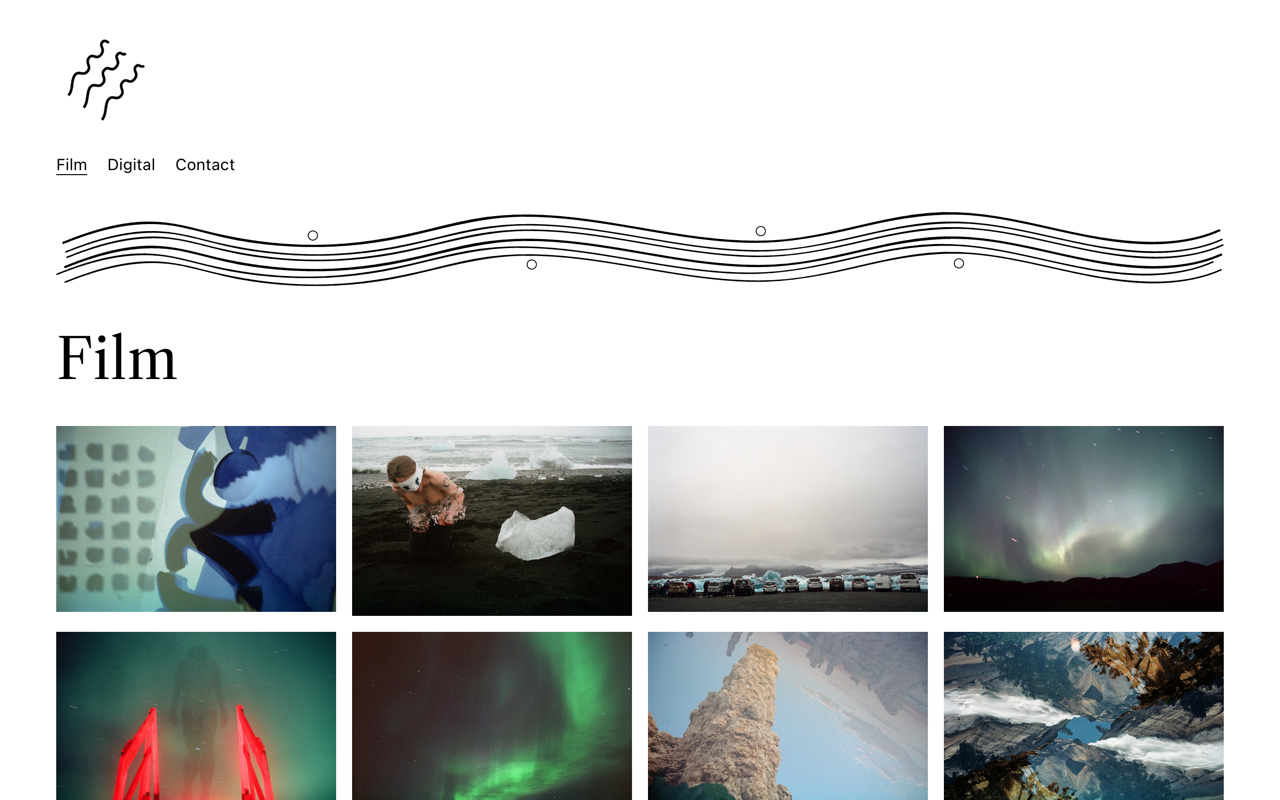
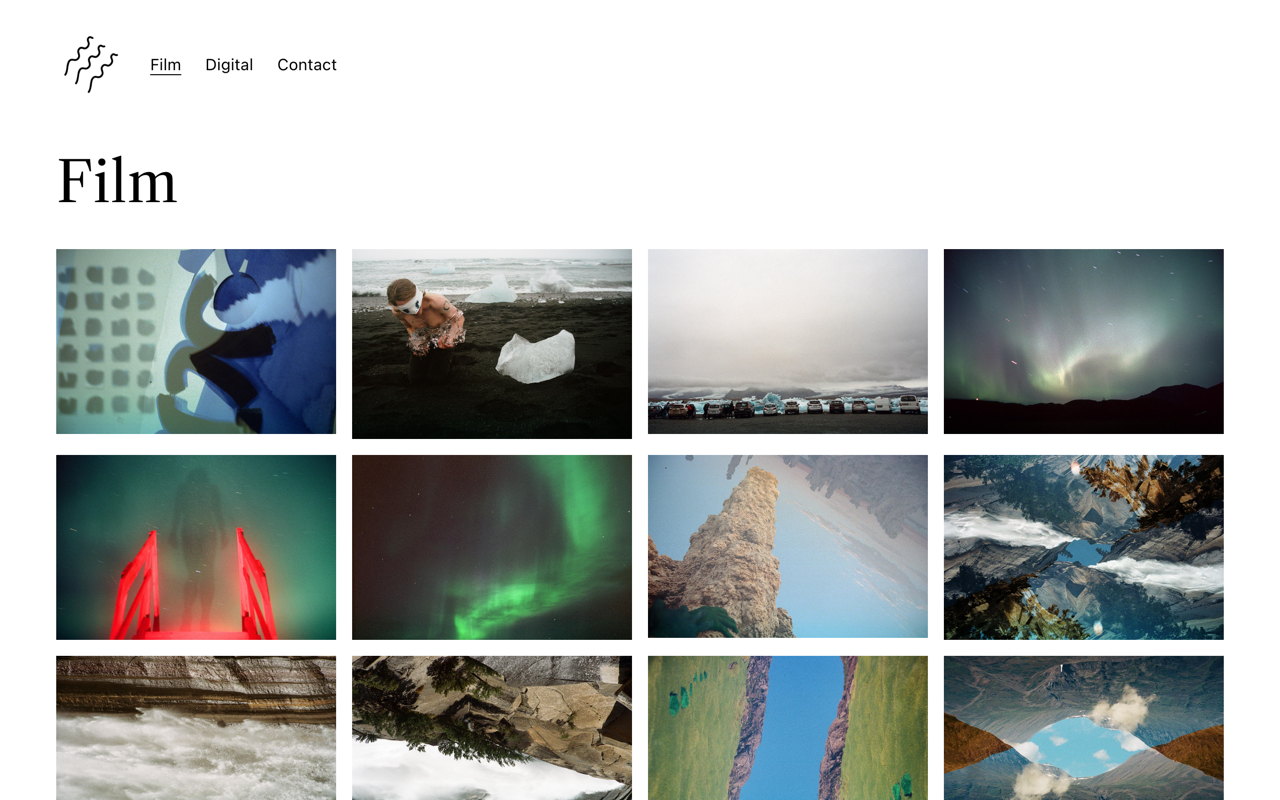
Inline wordmark with nav; move divider to page footer
Two header refinements that bring the layout closer to the original
Muse design intent:

1. Wordmark and nav are now a single flex row instead of stacked.
   The wordmark stays small (70px wide) and sits to the left of the
   "Film · Digital · Contact" links — a standard horizontal header.
   Stacking them looked awkward and gave the wordmark too much
   visual prominence even after the size reduction.

2. The wavy SVG divider was at the top of every page, just below
   the nav. In the original Muse layout it always closed the page
   as a decorative footer (e.g. on film.html it sat below all
   gallery photos; on index.html below the hero). Move it into a
   <footer class="site-footer"> at the end of each page so it
   reads as the end-of-content mark it was designed to be.

diff --git a/css/style.css b/css/style.css
@@ -41,21 +41,25 @@ img { max-width: 100%; height: auto; display: block; }
 
 /* --- Header --- */
 
-.site-header { padding-top: 0.5rem; }
+.site-header {
+  display: flex;
+  align-items: center;
+  flex-wrap: wrap;
+  gap: 1.5rem;
+  padding: 0.5rem 0 2.5rem;
+}
 
 .wordmark {
   display: block;
-  width: 100%;
-  max-width: 100px;
-  margin: 0 0 1rem;
+  flex-shrink: 0;
+  width: 70px;
 }
 .wordmark img { width: 100%; height: auto; display: block; }
 
 .site-nav {
   display: flex;
   flex-wrap: wrap;
-  gap: 1.25rem;
-  padding-bottom: 1rem;
+  gap: 1.5rem;
 }
 .site-nav a {
   font-family: -apple-system, BlinkMacSystemFont, "Segoe UI", Roboto, "Helvetica Neue", Arial, sans-serif;
@@ -68,12 +72,17 @@ img { max-width: 100%; height: auto; display: block; }
   text-underline-offset: 4px;
 }
 
+/* --- Footer divider (decorative end-of-page mark, per original Muse layout) --- */
+
+.site-footer {
+  margin-top: 3.5rem;
+  padding-bottom: 1rem;
+}
 .divider {
   display: block;
   width: 100%;
-  margin: 1rem 0 2rem;
 }
-.divider img { width: 100%; height: auto; }
+.divider img { width: 100%; height: auto; display: block; }
 
 /* --- Page heading --- */
 

diff --git a/digital.html b/digital.html
@@ -23,9 +23,6 @@
       <a href="digital.html" aria-current="page">Digital</a>
       <a href="contact.html">Contact</a>
     </nav>
-    <div class="divider" aria-hidden="true">
-      <img src="images/divider.svg" alt="">
-    </div>
   </header>
 
   <main>
@@ -41,6 +38,12 @@
       <button type="button" role="listitem" data-full="images/finalsadfacegreen.jpg"><img src="images/finalsadfacegreen.jpg" alt="Photograph" loading="lazy" width="1305" height="870"></button>
     </div>
   </main>
+
+  <footer class="site-footer">
+    <div class="divider" aria-hidden="true">
+      <img src="images/divider.svg" alt="">
+    </div>
+  </footer>
 </div>
 <script src="js/lightbox.js" defer></script>
 </body>

diff --git a/film.html b/film.html
@@ -23,9 +23,6 @@
       <a href="digital.html">Digital</a>
       <a href="contact.html">Contact</a>
     </nav>
-    <div class="divider" aria-hidden="true">
-      <img src="images/divider.svg" alt="">
-    </div>
   </header>
 
   <main>
@@ -84,6 +81,12 @@
       <button type="button" role="listitem" data-full="images/marlena_snake.jpg"><img src="images/marlena_snake.jpg" alt="Photograph" loading="lazy" width="1277" height="846"></button>
     </div>
   </main>
+
+  <footer class="site-footer">
+    <div class="divider" aria-hidden="true">
+      <img src="images/divider.svg" alt="">
+    </div>
+  </footer>
 </div>
 <script src="js/lightbox.js" defer></script>
 </body>

diff --git a/contact.html b/contact.html
@@ -23,9 +23,6 @@
       <a href="digital.html">Digital</a>
       <a href="contact.html" aria-current="page">Contact</a>
     </nav>
-    <div class="divider" aria-hidden="true">
-      <img src="images/divider.svg" alt="">
-    </div>
   </header>
 
   <main class="contact">
@@ -37,6 +34,12 @@
       <p>If you'd like to get in touch, please send an email to <a href="mailto:michaelroe.mail@gmail.com">michaelroe.mail@gmail.com</a>.</p>
     </div>
   </main>
+
+  <footer class="site-footer">
+    <div class="divider" aria-hidden="true">
+      <img src="images/divider.svg" alt="">
+    </div>
+  </footer>
 </div>
 </body>
 </html>

diff --git a/index.html b/index.html
@@ -23,9 +23,6 @@
       <a href="digital.html">Digital</a>
       <a href="contact.html">Contact</a>
     </nav>
-    <div class="divider" aria-hidden="true">
-      <img src="images/divider.svg" alt="">
-    </div>
   </header>
 
   <main>
@@ -34,6 +31,12 @@
     </figure>
     <p class="intro">Photography by Michael Roe.</p>
   </main>
+
+  <footer class="site-footer">
+    <div class="divider" aria-hidden="true">
+      <img src="images/divider.svg" alt="">
+    </div>
+  </footer>
 </div>
 </body>
 </html>
